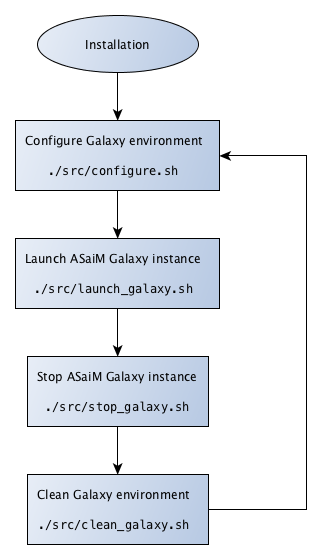
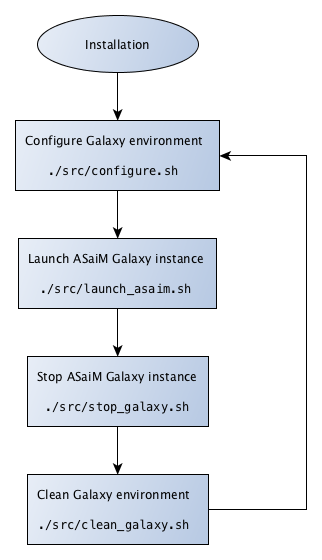
Change name of main script in usage and tutorial

Changed region(s): [[0.0311, 0.425, 0.6211, 0.5464], [0.6522, 0.425, 0.6832, 0.5464]]

diff --git a/framework/use.rst b/framework/use.rst
@@ -31,14 +31,14 @@ PostgreSQL, used to manage databases in Galaxy, must be launched as a background
 
 .. code-block:: bash
 
-    $ ./src/postgresql/configure_postgres.sh
+    $ ./src/configure/postgresql/configure_postgres.sh
 
 
 The FTP server with ``proftpd`` is configured and launched with:
 
 .. code-block:: bash
 
-    $ ./src/proftpd/configure_proftpd.sh
+    $ ./src/configure/proftpd/configure_proftpd.sh
 
 
 .. _framework-use-launch:
@@ -50,13 +50,13 @@ To launch the Galaxy instance corresponding to ASaiM framework:
 
 .. code-block:: bash
 
-    $ ./src/launch_galaxy.sh
+    $ ./src/launch_asaim.sh
 
 The Galaxy instance can be then browsed on `http://0.0.0.0:8080/ <http://0.0.0.0:8080/>`_. 
 
 Galaxy is simple to use. Some documentation is available on :ref:`tool usage <framework-tools-usage>` and :ref:`workflow usage <framework-workflow-usage>`.
 
-``src/launch_galaxy.sh`` script configures a Galaxy instance:
+``src/launch_asaim.sh`` script configures a Galaxy instance:
 
 1. Get latest revision of Galaxy from `Github <https://github.com/galaxyproject/galaxy>`_
 2. Prepare databases and local tools
@@ -83,7 +83,7 @@ To add new tools, you can modify the files in ``lib/galaxy_tools_playbook/files/
 
 .. code-block:: bash
 
-    $ ./src/populate_galaxy.sh
+    $ ./src/prepare_asaim/populate_galaxy.sh
 
 Alternatively, you can use the web interface and add other tools via ToolShed.
 Once register, you go in `Admin` (tool panel) and then `Search Tool Shed` (left panel). You choose which ToolShed to browse, search the wanted tool on the ToolShed, click on it to get `Preview and install`, click on `Install to Galaxy` (on top), choose in which tool section adding it and then click on `Install`. 
@@ -97,7 +97,7 @@ Needed databases are downloaded and linked to Galaxy tools using bash script:
 
 .. code-block:: bash
 
-    $ ./src/prepare_databases.sh
+    $ ./src/prepare_asaim/prepare_databases.sh
 
 .. _framework-use-stop:
 

diff --git a/framework/tutorial/installation.rst b/framework/tutorial/installation.rst
@@ -31,7 +31,7 @@ Move to the corresponding directory:
 
 .. code-block:: bash
 
-    $ ./src/launch_galaxy.sh
+    $ ./src/launch_asaim.sh
 
 
 Once you are done with ASaiM Galaxy instance, you have to :ref:`stop it <framework-tutorial-clean>` and :ref:`clean Galaxy environment <framework-tutorial-clean>`.
